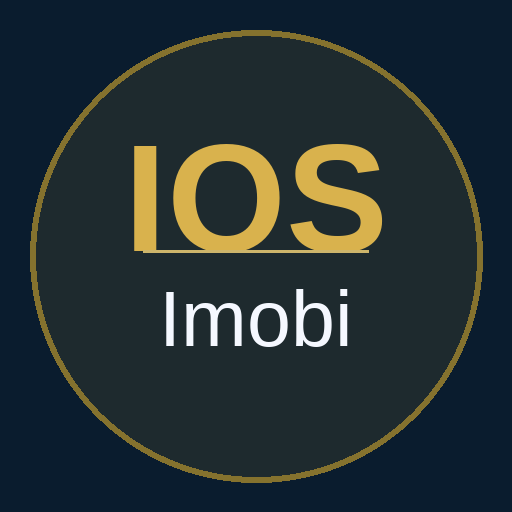
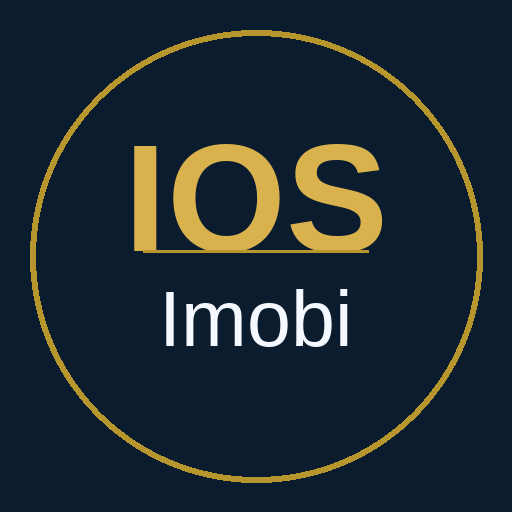
fix: ícone PWA sólido sem transparência para iOS Safari

diff --git a/property.html b/property.html
@@ -12,16 +12,14 @@
   <meta name="twitter:card"       content="summary_large_image">
   <link rel="stylesheet" href="styles.css">
   <script type="module" src="./property.js"></script>
-  <link rel="icon" type="image/png" sizes="64x64" href="favicon.png">
-  <link rel="icon" type="image/png" sizes="32x32" href="favicon-32.png">
-  <link rel="apple-touch-icon" href="apple-touch-icon.png">
+  <link rel="apple-touch-icon" sizes="180x180" href="/apple-touch-icon.png">
+  <link rel="icon" type="image/png" sizes="512x512" href="/icon-512.png">
+  <link rel="icon" type="image/png" sizes="192x192" href="/icon-192.png">
   <link rel="manifest" href="/manifest.json">
   <meta name="theme-color" content="#0f1c2e">
   <meta name="apple-mobile-web-app-capable" content="yes">
   <meta name="apple-mobile-web-app-status-bar-style" content="black-translucent">
   <meta name="apple-mobile-web-app-title" content="IOS Imobi">
-  <link rel="apple-touch-icon" href="/icon-192.png">
-  <meta name="mobile-web-app-capable" content="yes">
 </head>
 <body>
   <header class="topbar">

diff --git a/index.html b/index.html
@@ -6,16 +6,14 @@
   <title>Isaac Omar — Corretor de Imóveis</title>
   <link rel="stylesheet" href="styles.css">
   <script type="module" src="./script.js"></script>
-  <link rel="icon" type="image/png" sizes="64x64" href="favicon.png">
-  <link rel="icon" type="image/png" sizes="32x32" href="favicon-32.png">
-  <link rel="apple-touch-icon" href="apple-touch-icon.png">
+  <link rel="apple-touch-icon" sizes="180x180" href="/apple-touch-icon.png">
+  <link rel="icon" type="image/png" sizes="512x512" href="/icon-512.png">
+  <link rel="icon" type="image/png" sizes="192x192" href="/icon-192.png">
   <link rel="manifest" href="/manifest.json">
   <meta name="theme-color" content="#0f1c2e">
   <meta name="apple-mobile-web-app-capable" content="yes">
   <meta name="apple-mobile-web-app-status-bar-style" content="black-translucent">
   <meta name="apple-mobile-web-app-title" content="IOS Imobi">
-  <link rel="apple-touch-icon" href="/icon-192.png">
-  <meta name="mobile-web-app-capable" content="yes">
 </head>
 <body>
   <header class="topbar">

diff --git a/servicos.html b/servicos.html
@@ -5,16 +5,14 @@
   <meta name="viewport" content="width=device-width,initial-scale=1" />
   <title>Serviços — Isaac Omar Corretor</title>
   <link rel="stylesheet" href="styles.css">
-  <link rel="icon" type="image/png" sizes="64x64" href="favicon.png">
-  <link rel="icon" type="image/png" sizes="32x32" href="favicon-32.png">
-  <link rel="apple-touch-icon" href="apple-touch-icon.png">
+  <link rel="apple-touch-icon" sizes="180x180" href="/apple-touch-icon.png">
+  <link rel="icon" type="image/png" sizes="512x512" href="/icon-512.png">
+  <link rel="icon" type="image/png" sizes="192x192" href="/icon-192.png">
   <link rel="manifest" href="/manifest.json">
   <meta name="theme-color" content="#0f1c2e">
   <meta name="apple-mobile-web-app-capable" content="yes">
   <meta name="apple-mobile-web-app-status-bar-style" content="black-translucent">
   <meta name="apple-mobile-web-app-title" content="IOS Imobi">
-  <link rel="apple-touch-icon" href="/icon-192.png">
-  <meta name="mobile-web-app-capable" content="yes">
 </head>
 <body>
 

diff --git a/admin.html b/admin.html
@@ -6,16 +6,14 @@
   <title>IOS Imobi — Gerenciamento Imobiliário</title>
   <link rel="stylesheet" href="admin.css">
   <script type="module" src="./script.js"></script>
-  <link rel="icon" type="image/png" sizes="64x64" href="favicon.png">
-  <link rel="icon" type="image/png" sizes="32x32" href="favicon-32.png">
-  <link rel="apple-touch-icon" href="apple-touch-icon.png">
+  <link rel="apple-touch-icon" sizes="180x180" href="/apple-touch-icon.png">
+  <link rel="icon" type="image/png" sizes="512x512" href="/icon-512.png">
+  <link rel="icon" type="image/png" sizes="192x192" href="/icon-192.png">
   <link rel="manifest" href="/manifest.json">
   <meta name="theme-color" content="#0f1c2e">
   <meta name="apple-mobile-web-app-capable" content="yes">
   <meta name="apple-mobile-web-app-status-bar-style" content="black-translucent">
   <meta name="apple-mobile-web-app-title" content="IOS Imobi">
-  <link rel="apple-touch-icon" href="/icon-192.png">
-  <meta name="mobile-web-app-capable" content="yes">
 </head>
 <body>
 

diff --git a/public/sw.js b/public/sw.js
@@ -1,4 +1,4 @@
-const CACHE = "ios-imobi-v2";
+const CACHE = "ios-imobi-v3";
 const ASSETS = [
   "/",
   "/index.html",

diff --git a/sw.js b/sw.js
@@ -1,4 +1,4 @@
-const CACHE = "ios-imobi-v2";
+const CACHE = "ios-imobi-v3";
 const ASSETS = [
   "/",
   "/index.html",
